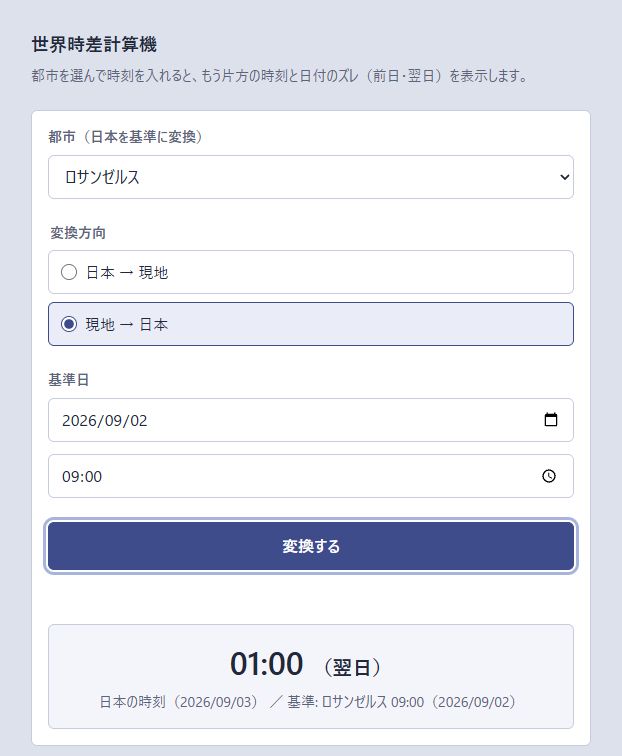
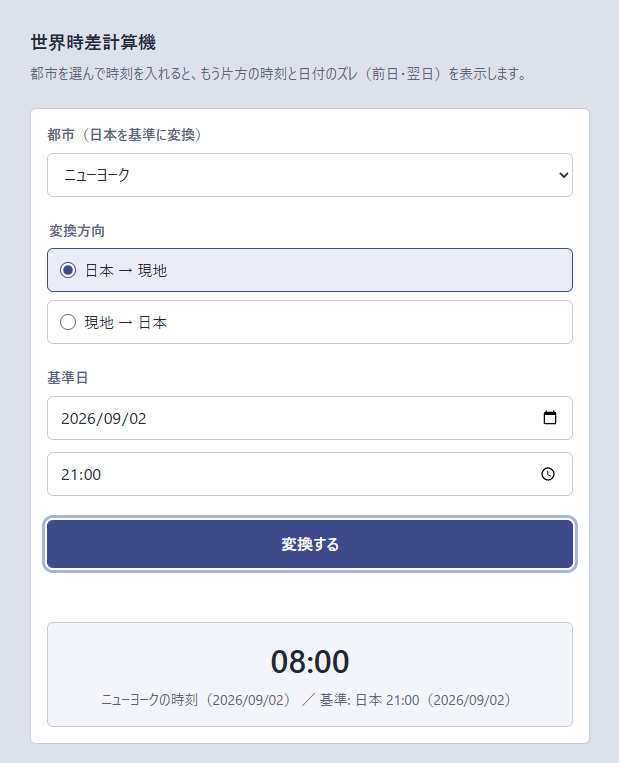
Day027を追加: SNS告知画像メーカー（Day025・026の公開URLも反映）

Changed region(s): [[0.0307, 0.0304, 0.9515, 1.0], [0.1535, 0.8519, 0.8288, 0.9431], [0.0614, 0.8214, 0.0921, 0.9431]]

diff --git a/index.html b/index.html
@@ -69,7 +69,7 @@ footer{border-color:#243039}
 <div class="wrap">
 
   <header>
-    <div class="counter">DAY 26 / 100</div>
+    <div class="counter">DAY 27 / 100</div>
     <h1>AIで解けると思っていなかった困りごとを、100日かけて100個解きます。</h1>
     <p class="intro">毎日ひとつ、誰かの困りごとを解くツールを作って公開しています。</p>
 
@@ -78,11 +78,20 @@ footer{border-color:#243039}
   <h2>これまでに作ったもの</h2>
   <div class="grid">
       <article class="card">
-        <img class="shot" src="assets/day-026.png" alt="海外の相手との打ち合わせ時刻を毎回暗算し直す手間 を解決する画面" loading="lazy">
+        <img class="shot" src="assets/day-027.png" alt="告知画像を毎回アプリで手作りするのが手間 を解決する画面" loading="lazy">
+        <div class="body">
+          <div class="day">DAY 027</div>
+          <h3 class="problem">告知画像を毎回アプリで手作りするのが手間</h3>
+          <p class="solution">告知文・日付・店名の3項目を入力し、背景色と文字色を選ぶだけで、正方形の告知画像を組み上げてPNGで保存できるようにした</p>
+          <div class="links"><a class="primary" href="https://nncf123nncf-oss.github.io/sns-announce-image-maker/" rel="noopener">使ってみる</a><a href="https://github.com/nncf123nncf-oss/sns-announce-image-maker" rel="noopener">中身を見る</a></div>
+        </div>
+      </article>
+      <article class="card">
+        <img class="shot" src="assets/day-026.png" alt="向こうは今何時？の時差計算が面倒 を解決する画面" loading="lazy">
         <div class="body">
           <div class="day">DAY 026</div>
-          <h3 class="problem">海外の相手との打ち合わせ時刻を毎回暗算し直す手間</h3>
-          <p class="solution">都市を選んで時刻を入れるだけで、もう片方の時刻と日付のズレ（前日・翌日）を表示する。サマータイムのある5都市もIntl.DateTimeFormatとタイムゾーン情報だけで自動的に正しく変換する（外部API不使用）</p>
+          <h3 class="problem">向こうは今何時？の時差計算が面倒</h3>
+          <p class="solution">主要都市を選んで日本時間または現地時間を入力するだけで、もう片方の時刻と「前日/翌日」の別を自動表示する</p>
           <div class="links"><a class="primary" href="https://nncf123nncf-oss.github.io/world-time-converter/" rel="noopener">使ってみる</a><a href="https://github.com/nncf123nncf-oss/world-time-converter" rel="noopener">中身を見る</a></div>
         </div>
       </article>
